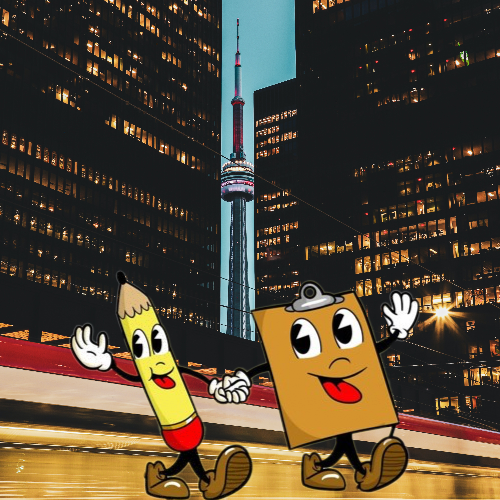
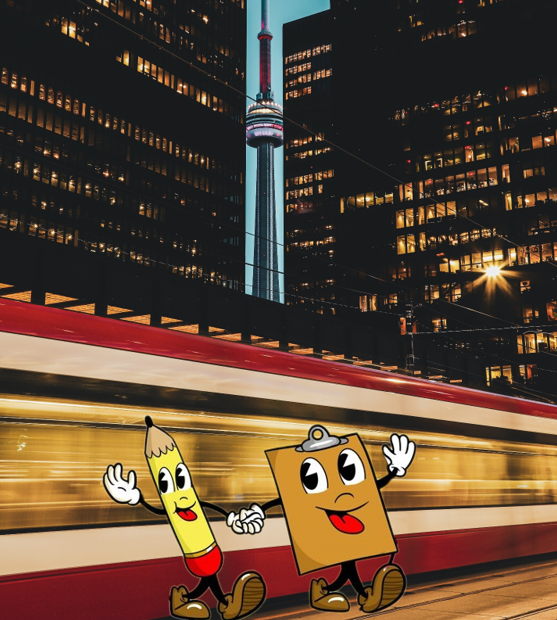
moved guys

diff --git a/index.html b/index.html
@@ -77,7 +77,7 @@
 
            <!-- Slide 3 -->
            <div class="item">
-            <div class="carousel-background"><img src="img/intro/bgweb.png" alt=""></div>
+            <div class="carousel-background"><img src="img/intro/guys in bg.png" alt=""></div>
             <div class="carousel-container">
               <div class="carousel-content">
                 <h1 class="animated fadeInDown" style="color:#dbad43; background-color: rgba(15, 15, 15, 0.6); padding: 30px">ABA in the GTA</h1>
